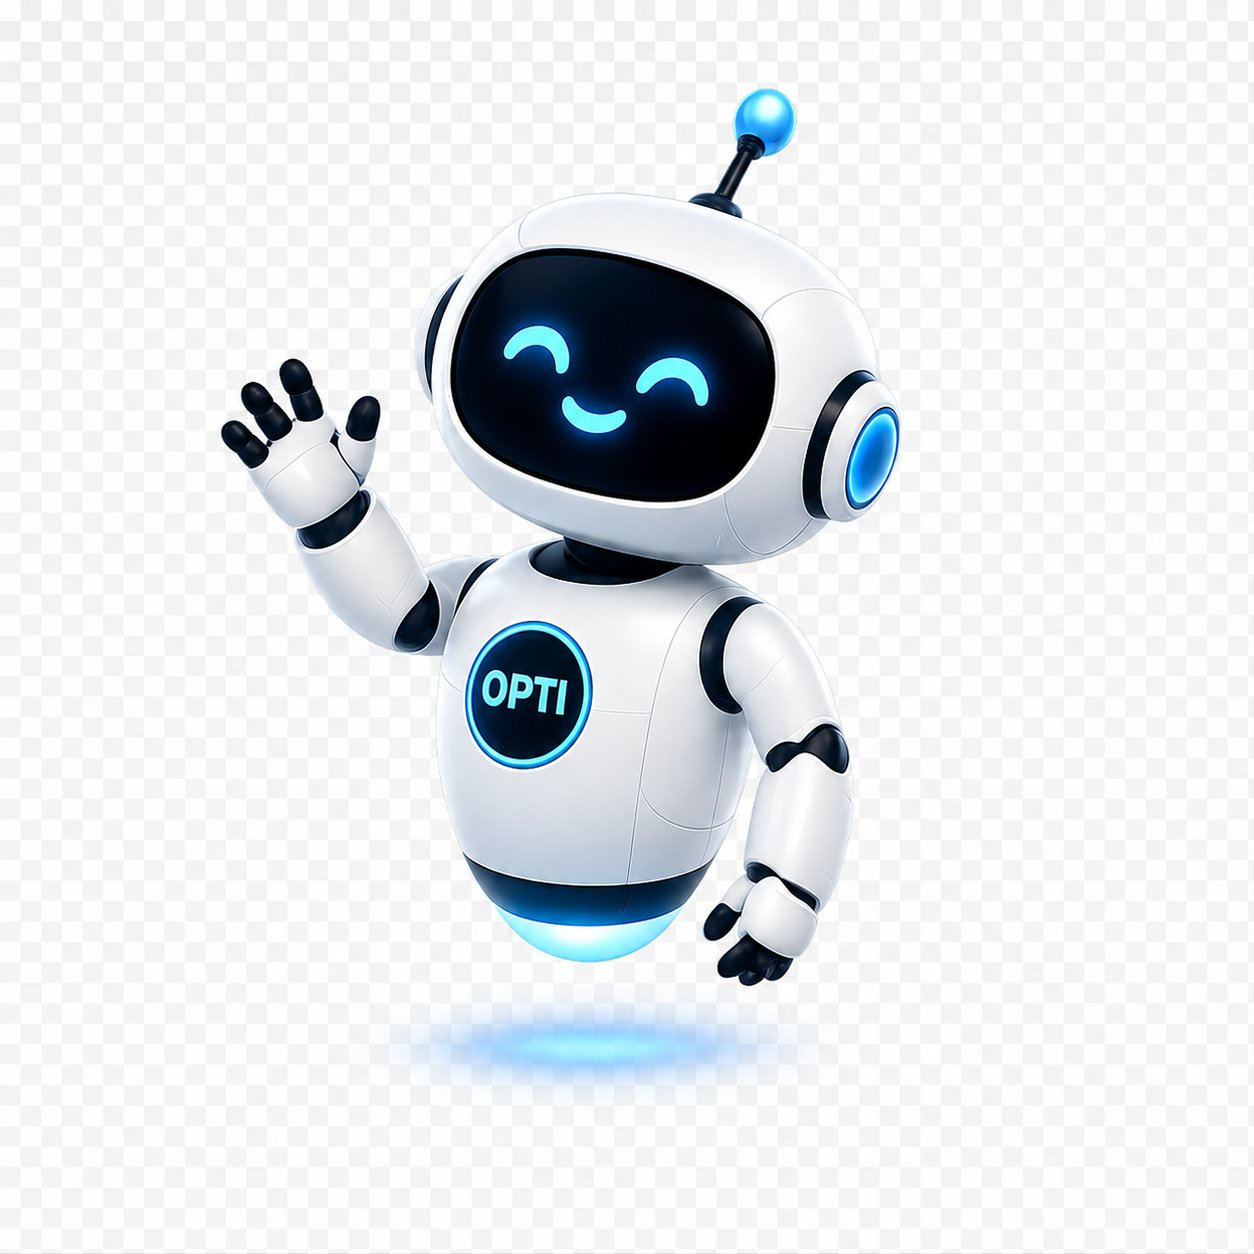
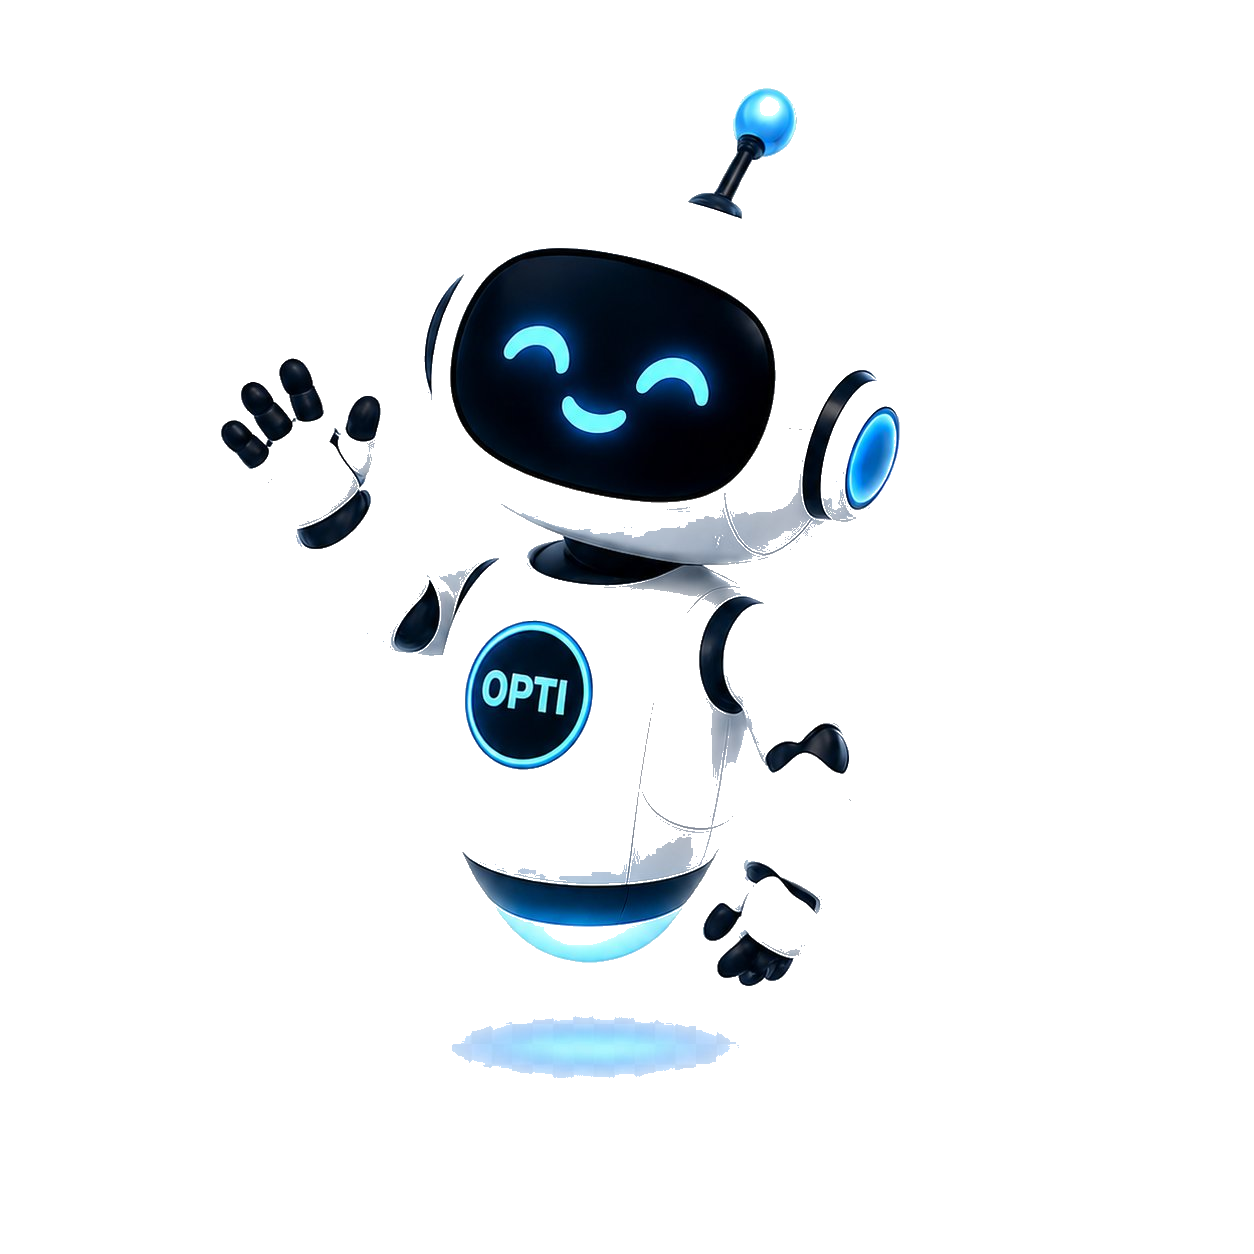
upgrade

diff --git a/templates/index.html b/templates/index.html
@@ -98,9 +98,9 @@ tr:hover td{background:#eff6ff}
 .sol-ok{border-left:3px solid #22c55e;opacity:.7}
 
 /* Opti Bot */
-#opti-bubble{position:fixed;bottom:16px;right:16px;z-index:9000;cursor:pointer;transition:transform .2s;width:120px;height:120px}
+#opti-bubble{position:fixed;bottom:16px;right:16px;z-index:9000;cursor:pointer;transition:transform .2s;width:120px;height:120px;background:none!important;border:none!important}
 #opti-bubble:hover{transform:scale(1.08)}
-#opti-bubble img{width:120px;height:120px;object-fit:contain;filter:drop-shadow(0 4px 16px rgba(37,99,235,.4))}
+#opti-bubble img{width:120px;height:120px;object-fit:contain;background:transparent!important;mix-blend-mode:normal;filter:drop-shadow(0 4px 20px rgba(37,99,235,.5))}
 #opti-badge{position:absolute;top:2px;right:2px;background:#ef4444;color:#fff;border-radius:50%;width:20px;height:20px;font-size:10px;display:none;align-items:center;justify-content:center;font-weight:700;border:2px solid #fff}
 #opti-panel{position:fixed;bottom:120px;right:16px;width:360px;background:#fff;border-radius:20px;box-shadow:0 8px 40px rgba(0,0,0,.18);z-index:9000;display:none;flex-direction:column;overflow:hidden;max-height:560px}
 #opti-panel.open{display:flex}